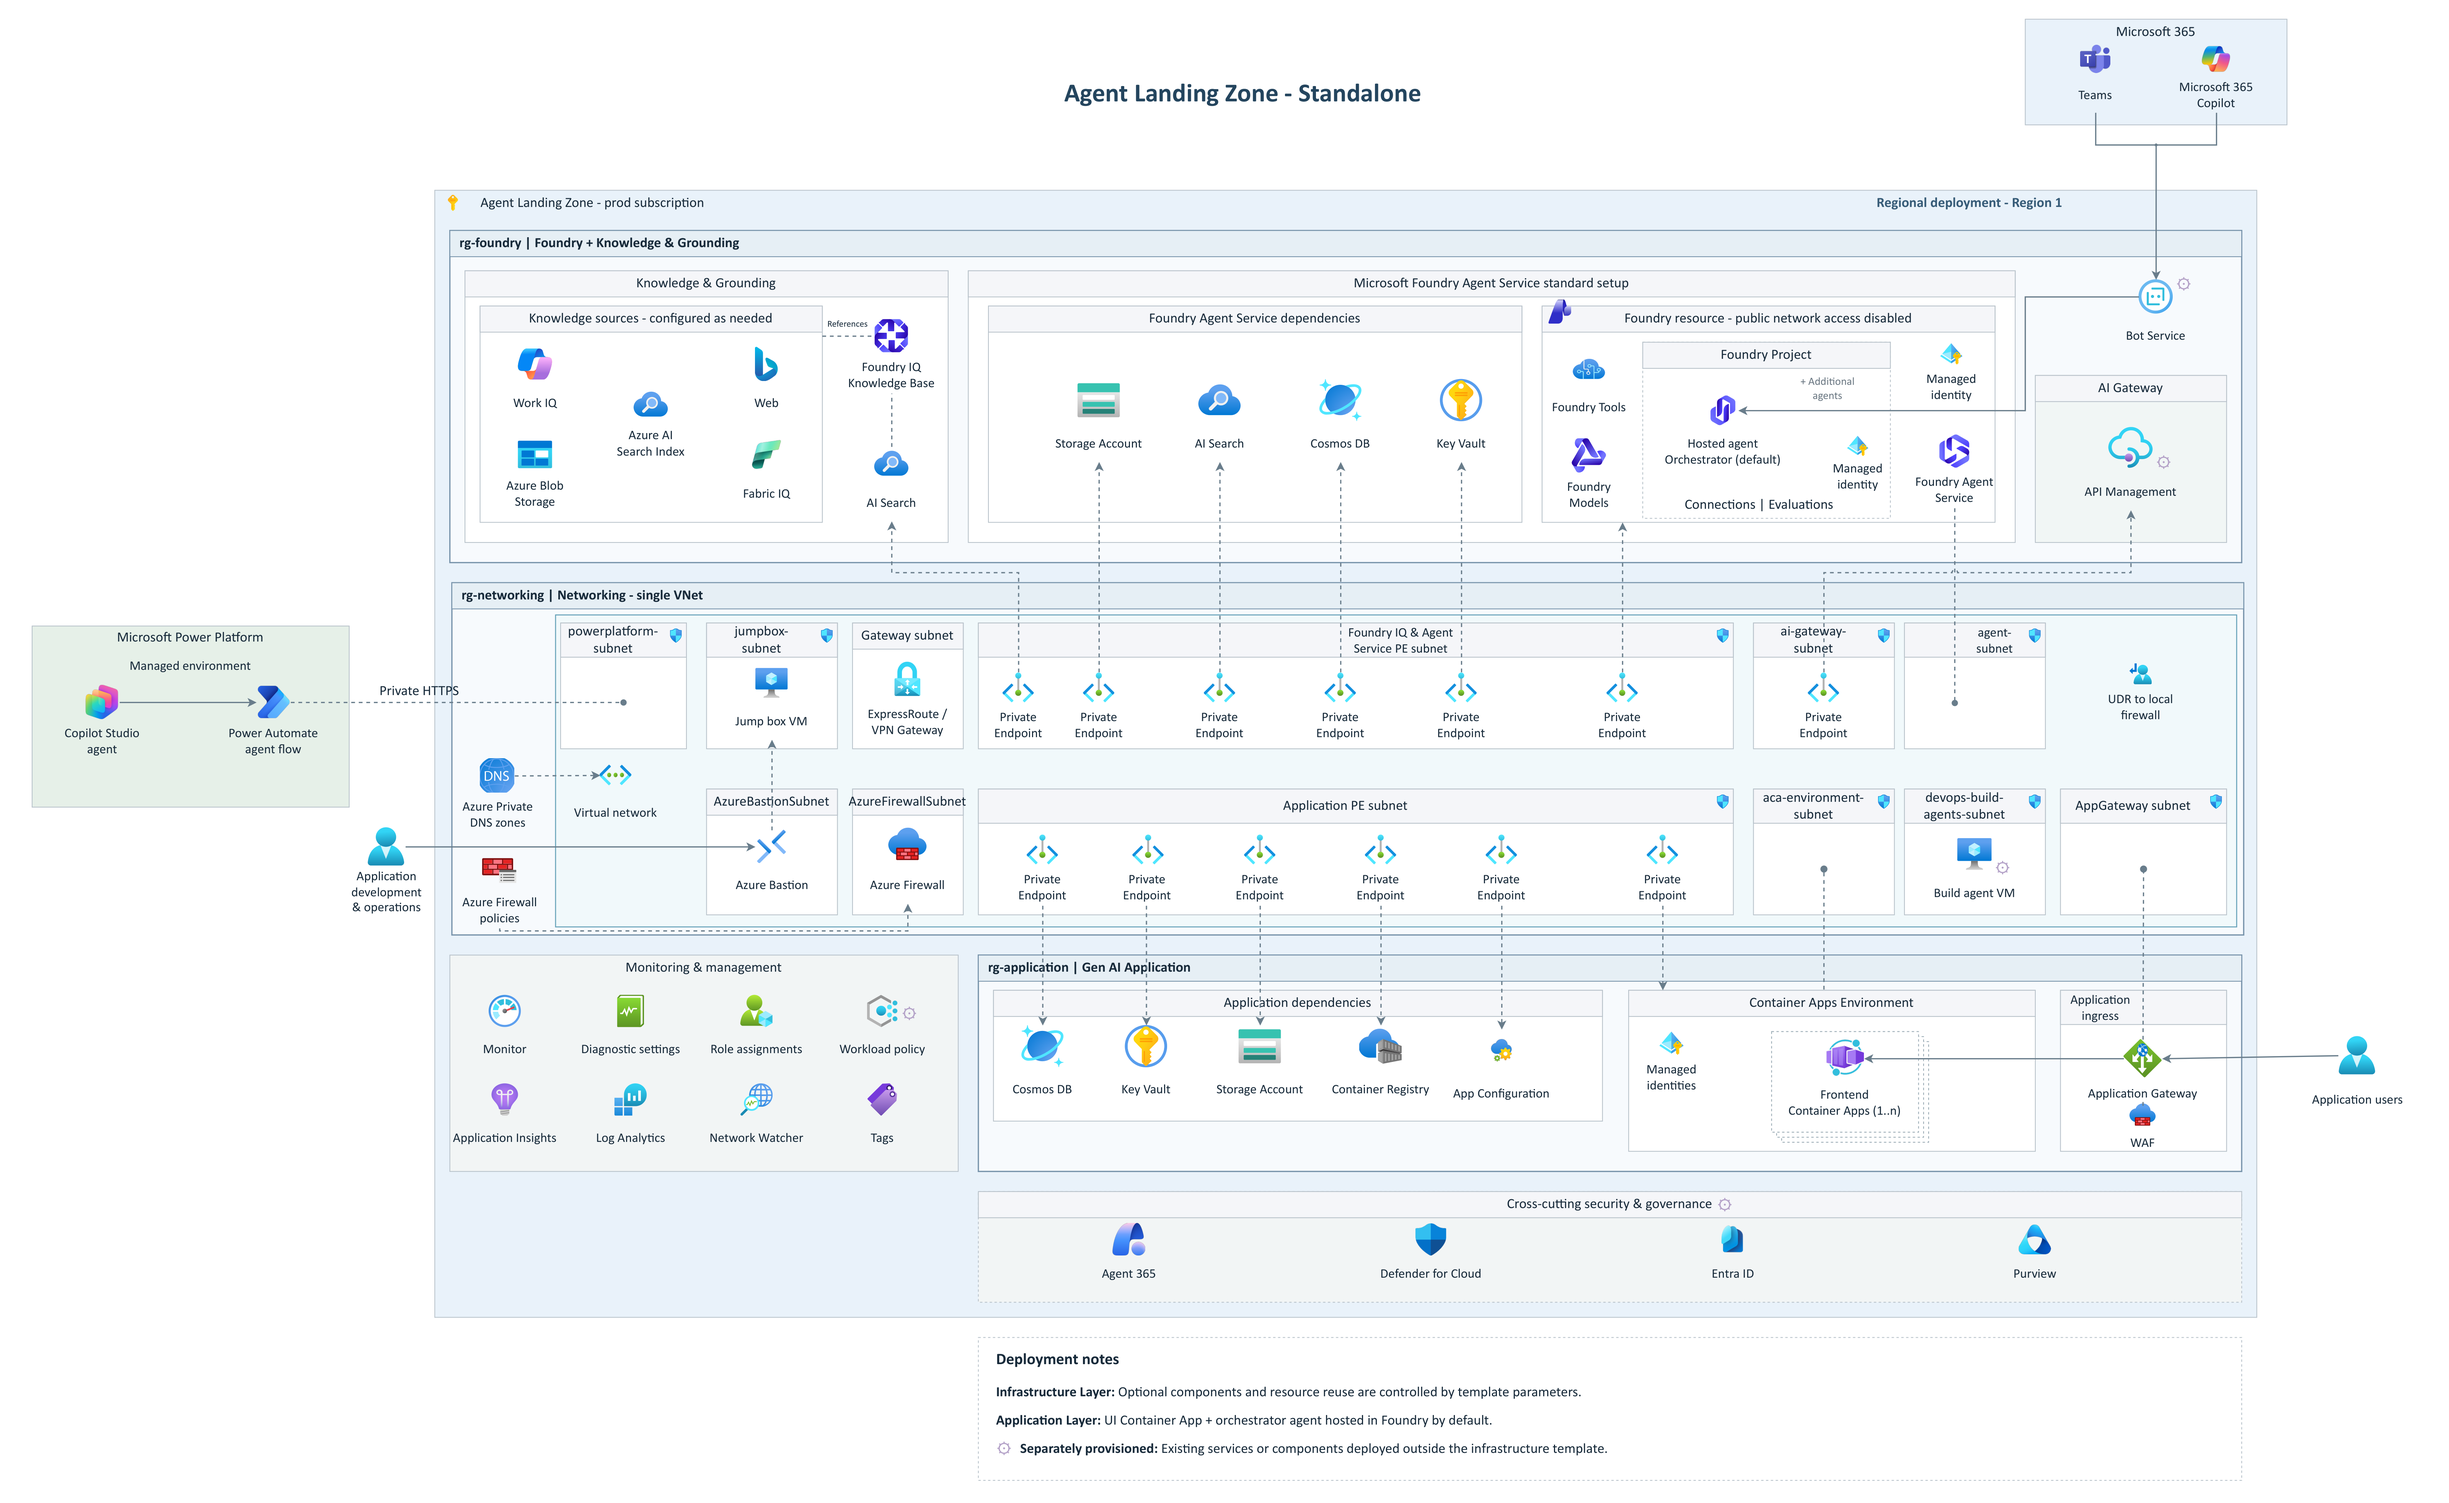
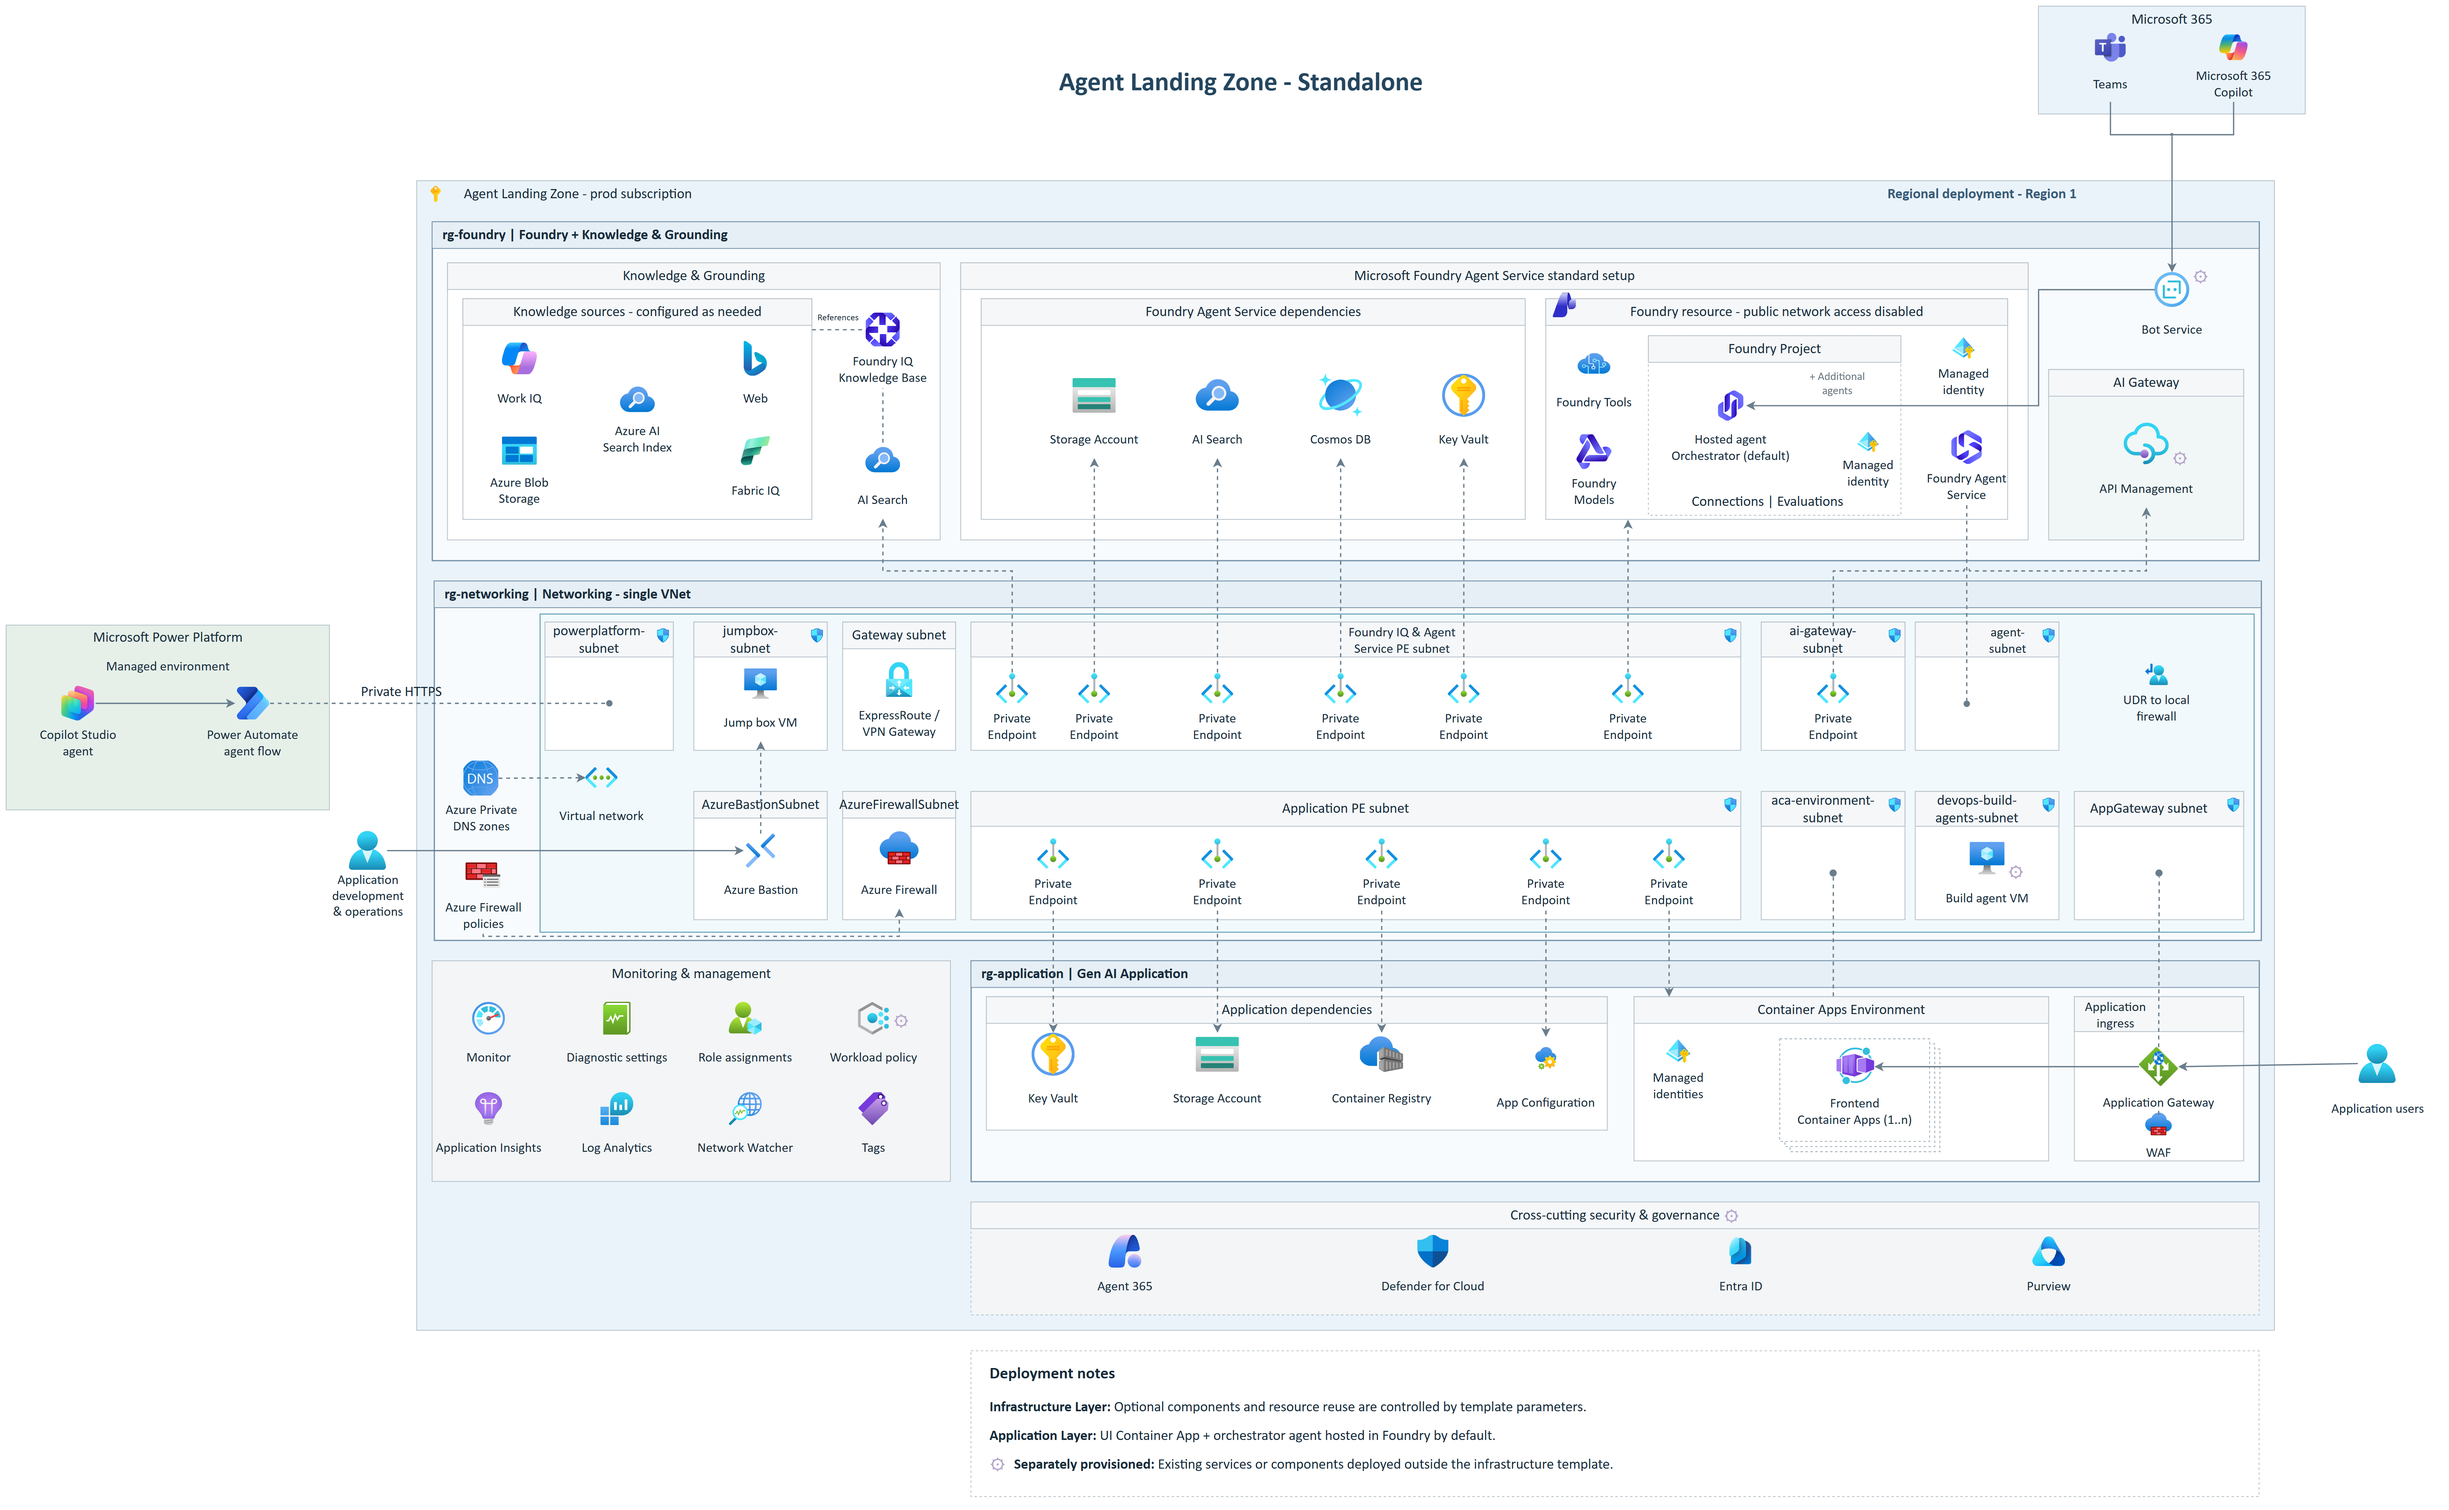
docs: show default Agent architectures without application Cosmos
Refresh the three high-resolution architecture PNGs and the Agent Landing Zone README illustrations. Retain the Foundry backing Cosmos and the integrated AI Gateway block unchanged; version image URLs to avoid stale browser caches.

diff --git a/docs/index.md b/docs/index.md
@@ -68,19 +68,22 @@ the application, or both using the [Agent Landing Zone guide](agent-landing-zone
 
 These reference architectures show private-network deployment options. Resource
 selection and reuse depend on the implementation and deployment settings.
+The Agent Landing Zone portions show the default hosted application without
+application Cosmos DB or its private endpoint. Foundry Agent Service's separate
+backing Cosmos DB is retained.
 
 #### Standalone
 
 The workload owns its networking and supporting services without a shared platform hub.
 
-[![Standalone Agent Landing Zone reference architecture](architecture/media/AI-Landing-Zone-without-platform.png)](architecture/media/AI-Landing-Zone-without-platform.png)
+[![Standalone Agent Landing Zone reference architecture](architecture/media/AI-Landing-Zone-without-platform.png?v=23ad082c751c)](architecture/media/AI-Landing-Zone-without-platform.png?v=23ad082c751c)
 
 #### With Platform Hub
 
 The workload connects to a platform hub that provides shared connectivity, DNS
 and egress services.
 
-[![Agent Landing Zone with Platform Hub reference architecture](architecture/media/AI-Landing-Zone-with-platform.png)](architecture/media/AI-Landing-Zone-with-platform.png)
+[![Agent Landing Zone with Platform Hub reference architecture](architecture/media/AI-Landing-Zone-with-platform.png?v=3bc5ea7251a1)](architecture/media/AI-Landing-Zone-with-platform.png?v=3bc5ea7251a1)
 
 ### AI Gateway Landing Zone
 
@@ -92,7 +95,7 @@ The integrated scenario below combines an Agent Landing Zone, a Platform Hub and
 a separate AI Gateway Landing Zone. The gateway has its own deployment and
 connectivity requirements; it is not provisioned automatically by Agent Landing Zone.
 
-[![AI Gateway and Platform Hub integrated reference architecture](architecture/media/AI-Landing-Zones-APIM.png)](architecture/media/AI-Landing-Zones-APIM.png)
+[![AI Gateway and Platform Hub integrated reference architecture](architecture/media/AI-Landing-Zones-APIM.png?v=95111fb4caec)](architecture/media/AI-Landing-Zones-APIM.png?v=95111fb4caec)
 
 <span id="foundry-modules"></span>
 <span id="agent-landing-zone_1"></span>

diff --git a/README.md b/README.md
@@ -23,7 +23,13 @@ native Foundry IQ Blob ingestion instead, which does not provide chat
 attachment uploads. See the [Agent Landing Zone guide](https://azure.github.io/AI-Landing-Zones/agent-landing-zone/)
 for deployment options and configuration.
 
-![image](/media/AI-Landing-Zone-Foundry.png)
+#### Standalone
+
+![Standalone Agent Landing Zone reference architecture](docs/architecture/media/AI-Landing-Zone-without-platform.png?v=23ad082c751c)
+
+#### With Platform Hub
+
+![Agent Landing Zone with Platform Hub reference architecture](docs/architecture/media/AI-Landing-Zone-with-platform.png?v=3bc5ea7251a1)
 
 ### AI Gateway Landing Zone
 
